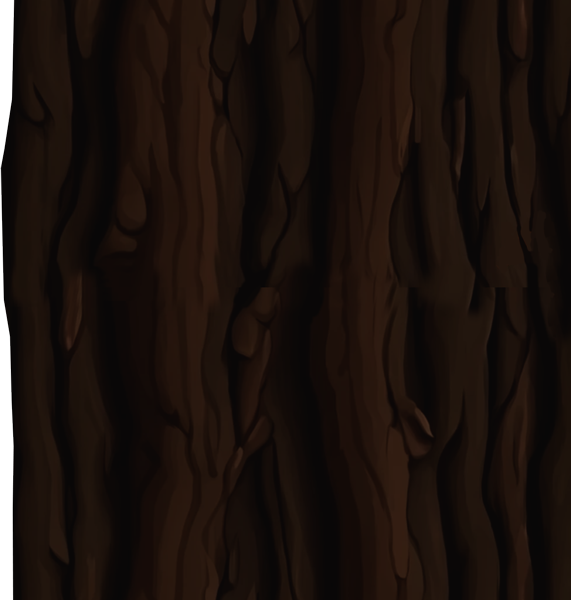
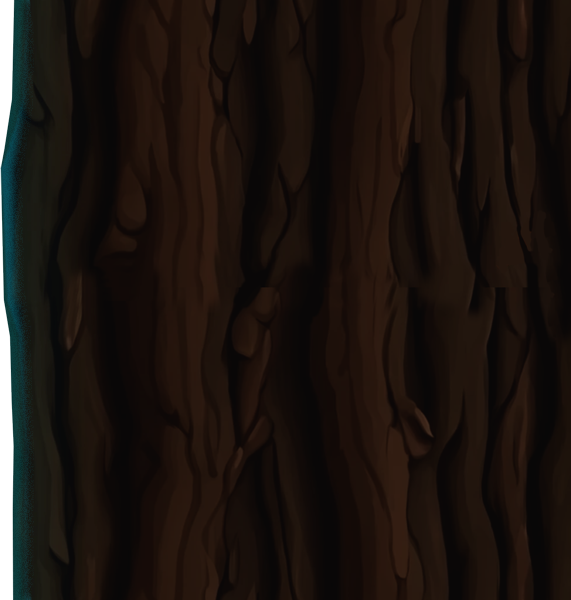
Looks kind of nice already

Changed region(s): [[0.0, 0.0, 0.0595, 1.0]]

diff --git a/src/test_eden/Gaja/TreeTrunk.tsx b/src/test_eden/Gaja/TreeTrunk.tsx
@@ -1,22 +1,24 @@
 import {useMemo, useState} from "react";
 import {Box} from "@mui/material";
-import KeyboardArrowUpIcon from "@mui/icons-material/KeyboardArrowUp";
-import KeyboardDoubleArrowUpIcon from "@mui/icons-material/KeyboardDoubleArrowUp";
 import styled from "styled-components";
 import {observer} from "mobx-react";
 import {useGame} from "../context/game.context.ts";
 import image from '../../assets/images/seemless_trunk.png';
 import {useAnimationSubscription} from "../../Resource";
+import behemoth_image from '../../assets/images/behemoth.png';
+import behemoth_animated from '../../assets/images/behemoth_animated.gif';
+import mana_dirty from '../../Resource/assets/icons/mana_dirty.png';
 
 const SPOTS_DIVIDER = 25;
 const BACKGROUND_IMAGE_HEIGHT = 600;
+const BACKGROUND_IMAGE_WIDTH = 571;
 const CLIMBING_SPEED_COEFFICIENT = 0.1
 
 export const TreeTrunk = observer(() => {
   const {get} = useGame().resources
   const height = get('behemoth_climb_height').beautify.value
   const climbing_speed = get('behemoth_climb_speed').value
-  const [displacement, setDisplacement] = useState(-BACKGROUND_IMAGE_HEIGHT*2);
+  const [displacement, setDisplacement] = useState(-BACKGROUND_IMAGE_HEIGHT * 2);
 
   useAnimationSubscription(() => {
     if (climbing_speed) {
@@ -27,9 +29,11 @@ export const TreeTrunk = observer(() => {
 
   return (
     <Tree>
-      <Trunk>
-        <TrunkBackground $displacement={displacement} />
-      </Trunk>
+      <TrunkContainer>
+        <Trunk>
+          <TrunkBackground $displacement={displacement}/>
+        </Trunk>
+      </TrunkContainer>
       <Behemoth/>
       <Digging/>
       <Box position="absolute" bottom={100} left="50%">
@@ -60,8 +64,10 @@ const Digging = observer(() => {
             top: y,
             left: x,
             borderRadius: 20,
-            background: 'radial-gradient(circle, rgba(34,54,50,1) 0%, rgba(47,71,66,1) 100%)',
-          }}/>
+            // background: 'radial-gradient(circle, rgba(34,54,50,1) 0%, rgba(47,71,66,1) 100%)',
+          }}>
+            <img src={mana_dirty} alt="dirty mana found" width={32 * size / 3} style={{opacity: 0.7}} />
+          </Box>
         ))}
       </>
     )
@@ -82,14 +88,15 @@ const Digging = observer(() => {
         left: 0,
         top: '50%',
         transform: 'translateY(-50%)',
+        zIndex: 1,
       }}>
         {spots}
       </Box>
 
-        <Tunnel $digging_depth={digging_depth}>
+      <Tunnel $digging_depth={digging_depth}>
 
-        <Acid $flushing_depth={flushing_depth} />
-        </Tunnel>
+        <Acid $flushing_depth={flushing_depth}/>
+      </Tunnel>
 
     </Box>
   )
@@ -97,12 +104,14 @@ const Digging = observer(() => {
 
 const Behemoth = () => {
   const {get} = useGame().resources;
-  const speed = get('behemoth_climb_speed').beautify.value;
+  const speed = get('behemoth_climb_speed').value;
+  const src = speed ? behemoth_animated : behemoth_image;
   return (
     <StyledBehemoth>
-      <KeyboardArrowUpIcon/>
-      <KeyboardDoubleArrowUpIcon/>
-      {speed}
+      <img src={src} alt={src} style={{transform: 'rotate(-90deg)'}}/>
+      {/*<KeyboardArrowUpIcon/>*/}
+      {/*<KeyboardDoubleArrowUpIcon/>*/}
+      {/*{speed}*/}
     </StyledBehemoth>
   )
 }
@@ -126,30 +135,35 @@ const getRandomCoordinateList = (max: number) => {
 const randomCoordinates = getRandomCoordinateList(200);
 
 
-
 const Tree = styled(Box)`
     position: relative;
-    width: 40%;
+    width: ${BACKGROUND_IMAGE_WIDTH}px;
     height: 100vh;
 `
 
+const TrunkContainer = styled(Box)`
+    position: relative;
+    width: 100%;
+    height: 100%;
+    overflow-y: hidden;
+`
 const Trunk = styled(Box)`
     position: relative;
-    width: 571px;
+    width: 100%;
     height: 600px;
 `
 
-const TrunkBackground = styled.div.attrs<{$displacement: number}>(props => ({
+const TrunkBackground = styled.div.attrs<{ $displacement: number }>(props => ({
   style: {
     transform: `translateY(${props.$displacement}px)`
   },
 }))`position: relative;
     //top: -600px;
-    width: 571px;
-    height: 1800px;
+    width: ${BACKGROUND_IMAGE_WIDTH}px;
+    height: 3000px;
     background-image: url("${image}");`
 
-const Tunnel = styled.div.attrs<{$digging_depth: number}>(props => ({
+const Tunnel = styled.div.attrs<{ $digging_depth: number }>(props => ({
   style: {
     width: props.$digging_depth + '%',
   },
@@ -158,7 +172,7 @@ const Tunnel = styled.div.attrs<{$digging_depth: number}>(props => ({
     background-Color: #000000b3;
     transition: width 0.3s linear`
 
-const Acid = styled.div.attrs<{$flushing_depth: number}>(props => ({
+const Acid = styled.div.attrs<{ $flushing_depth: number }>(props => ({
   style: {
     height: props.$flushing_depth + '%'
   },

diff --git a/src/test_eden/Game.tsx b/src/test_eden/Game.tsx
@@ -1,14 +1,15 @@
-import {Box, Button, Divider, Paper, Stack, Typography} from "@mui/material";
+import {Box, Divider, Paper, Typography} from "@mui/material";
 import styled from "styled-components";
 import {GameControls} from "./GameControls.tsx";
 import {TickControl} from "./TickControl.tsx";
-import {observer} from "mobx-react";
 import {useGame} from "./context/game.context.ts";
 import {Debug_Behemoth} from "./Debug_Behemoth.tsx";
 import {Debug} from "./Components/Debug.tsx";
 import {SlaveCount} from "./SlaveCount.tsx";
 import {FactionManager} from "./FactionManager.tsx";
 import {TreeTrunk} from "./Gaja/TreeTrunk.tsx";
+import background from '../assets/images/hell_background.jpg'
+import {Debug_SlaveManagement} from "./Debug_SlaveManagement.tsx";
 
 
 export const Game = () => {
@@ -28,7 +29,7 @@ export const Game = () => {
         </Box>
       </Debug>
       <Box sx={{position: 'absolute', top: '50%', right: 10, transform: 'translateY(-50%)'}}>
-        <SlaveManager/>
+        <Debug_SlaveManagement/>
       </Box>
       <Box sx={{position: 'absolute', top: '50%', left: 10, transform: 'translateY(-50%)'}}>
         <FactionManager/>
@@ -36,34 +37,6 @@ export const Game = () => {
     </>
   )
 }
-
-const SlaveManager = observer(() => {
-  const {slaves} = useGame();
-  return (
-    <Box>
-      <Typography variant="h5" mb={2} onClick={() => slaves.addSlave()}>Slaves</Typography>
-      <Stack direction="row" alignItems="center">
-        <Button onClick={() => slaves.wasteSlave()}>-</Button>
-        <SlaveCount />
-        <Button onClick={() => slaves.addSlave()}>+</Button>
-      </Stack>
-      <Stack direction="row" alignItems="center">
-        <Typography align="center" sx={{width: '100%'}}>Unassigned {slaves.slave_unassigned}</Typography>
-      </Stack>
-      <Stack direction="row" alignItems="center">
-        <Button onClick={() => slaves.unassignSlaves('digger', 1)}>-</Button>
-        <Typography>Diggers {slaves.slave_diggers}</Typography>
-        <Button onClick={() => slaves.assignSlaves('digger', 1)}>+</Button>
-      </Stack>
-      <Stack direction="row" alignItems="center">
-        <Button onClick={() => slaves.unassignSlaves('blacksmith', 1)}>-</Button>
-        <Typography>Blacksmiths {slaves.slave_blacksmiths}</Typography>
-        <Button onClick={() => slaves.assignSlaves('blacksmith', 1)}>+</Button>
-      </Stack>
-      <Button onClick={() => slaves.wasteSlave()} color="error">Waste slave</Button>
-    </Box>
-  )
-})
 
 const TopBar = () => {
   const {resources, behemoth} = useGame();
@@ -100,5 +73,7 @@ const TopBar = () => {
 const Screen = styled(Box)`
     width: 100vw;
     height: 100vh;
-    background: #151918;
+    //background: #151918;
+    background-image: url("${background}");
+    background-size: cover;
 `

diff --git a/src/test_eden/GameControls.tsx b/src/test_eden/GameControls.tsx
@@ -2,9 +2,11 @@ import {Button, Divider, Stack} from "@mui/material";
 import styled from "styled-components";
 import {useGame} from "./context/game.context.ts";
 import {observer} from "mobx-react";
+import {useTick} from "../Resource/context/tick.context.ts";
 
 export const GameControls = observer(() => {
   const {behemoth} = useGame();
+  const {isActive} = useTick();
   const onToggleClimbing = behemoth.movement_requested ? behemoth.stopClimbing : behemoth.startClimbing
   const onToggleDigging = behemoth.digging_requested ? behemoth.stopDigging : behemoth.startDigging
   const onToggleFlushing = behemoth.flushing_requested ? behemoth.stopFlushing : behemoth.startFlushing
@@ -12,14 +14,14 @@ export const GameControls = observer(() => {
   return (
     <StyledGameControls>
       <Stack direction="row">
-        <Button disabled={!behemoth.canClimb} onClick={onToggleClimbing}>
+        <Button disabled={!behemoth.canClimb} onClick={onToggleClimbing} color={isActive ? undefined : 'error'}>
           {behemoth.movement_requested ? 'Stop climbing' : 'Start climbing'}
         </Button>
         <Divider orientation="vertical" flexItem />
-        <Button disabled={!behemoth.canDig} onClick={onToggleDigging}>
+        <Button disabled={!behemoth.canDig} onClick={onToggleDigging} color={isActive ? undefined : 'error'}>
           {behemoth.digging_requested ? 'Stop digging' : 'Start digging'}
         </Button>
-        <Button disabled={!behemoth.canFlush} onClick={onToggleFlushing}>
+        <Button disabled={!behemoth.canFlush} onClick={onToggleFlushing} color={isActive ? undefined : 'error'}>
           {behemoth.flushing_requested ? 'Stop flushing' : 'Start flushing'}
         </Button>
       </Stack>

diff --git a/src/test_eden/Debug_SlaveManagement.tsx b/src/test_eden/Debug_SlaveManagement.tsx
@@ -1,0 +1,33 @@
+import {observer} from "mobx-react";
+import {useGame} from "./context/game.context.ts";
+import {Button, Stack, Typography} from "@mui/material";
+import {SlaveCount} from "./SlaveCount.tsx";
+import {Debug} from "./Components/Debug.tsx";
+
+export const Debug_SlaveManagement = observer(() => {
+  const {slaves} = useGame();
+  return (
+    <Debug>
+      <Typography variant="h5" mb={2} onClick={() => slaves.addSlave()}>Slaves</Typography>
+      <Stack direction="row" alignItems="center">
+        <Button onClick={() => slaves.wasteSlave()}>-</Button>
+        <SlaveCount/>
+        <Button onClick={() => slaves.addSlave()}>+</Button>
+      </Stack>
+      <Stack direction="row" alignItems="center">
+        <Typography align="center" sx={{width: '100%'}}>Unassigned {slaves.slave_unassigned}</Typography>
+      </Stack>
+      <Stack direction="row" alignItems="center">
+        <Button onClick={() => slaves.unassignSlaves('digger', 1)}>-</Button>
+        <Typography>Diggers {slaves.slave_diggers}</Typography>
+        <Button onClick={() => slaves.assignSlaves('digger', 1)}>+</Button>
+      </Stack>
+      <Stack direction="row" alignItems="center">
+        <Button onClick={() => slaves.unassignSlaves('blacksmith', 1)}>-</Button>
+        <Typography>Blacksmiths {slaves.slave_blacksmiths}</Typography>
+        <Button onClick={() => slaves.assignSlaves('blacksmith', 1)}>+</Button>
+      </Stack>
+      <Button onClick={() => slaves.wasteSlave()} color="error">Waste slave</Button>
+    </Debug>
+  )
+})

diff --git a/src/App.tsx b/src/App.tsx
@@ -10,7 +10,7 @@ function App() {
   return (
     <>
       <ThemeProvider theme={theme}>
-        <AdminResourceProvider initialState={{admin: {buttonPosition: "top-left"}}}>
+        <AdminResourceProvider initialState={{admin: {buttonPosition: "bottom-right"}}}>
           <GameProvider>
             <Game/>
           </GameProvider>

diff --git a/src/constants/config.ts b/src/constants/config.ts
@@ -1,4 +1,4 @@
 export const MS_TO_TICK = 25;
 export const TICKS_PER_SECOND = 5;
 export const TICK_AUTO_START = true;
-export const DEBUG = true;
+export const DEBUG = false;
